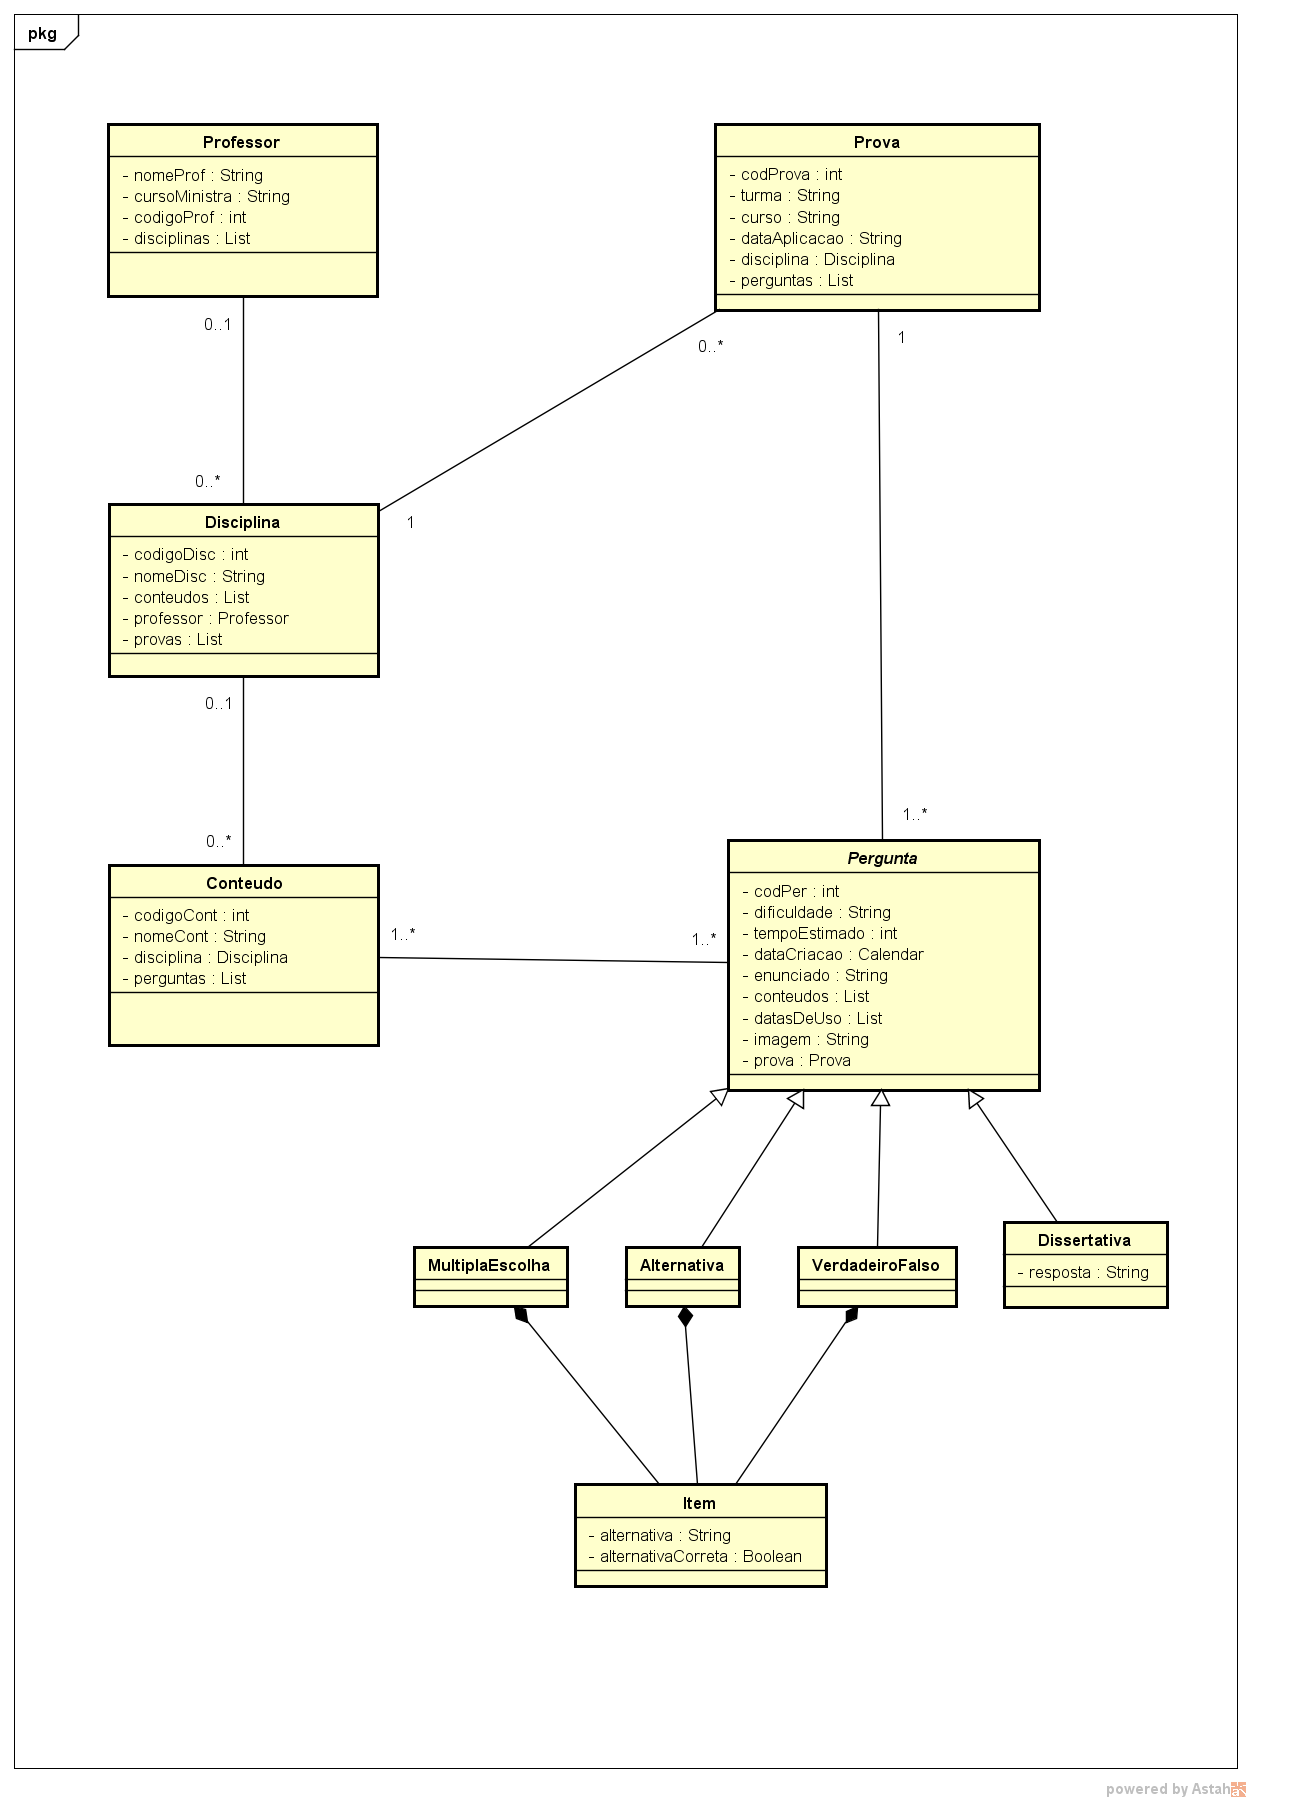
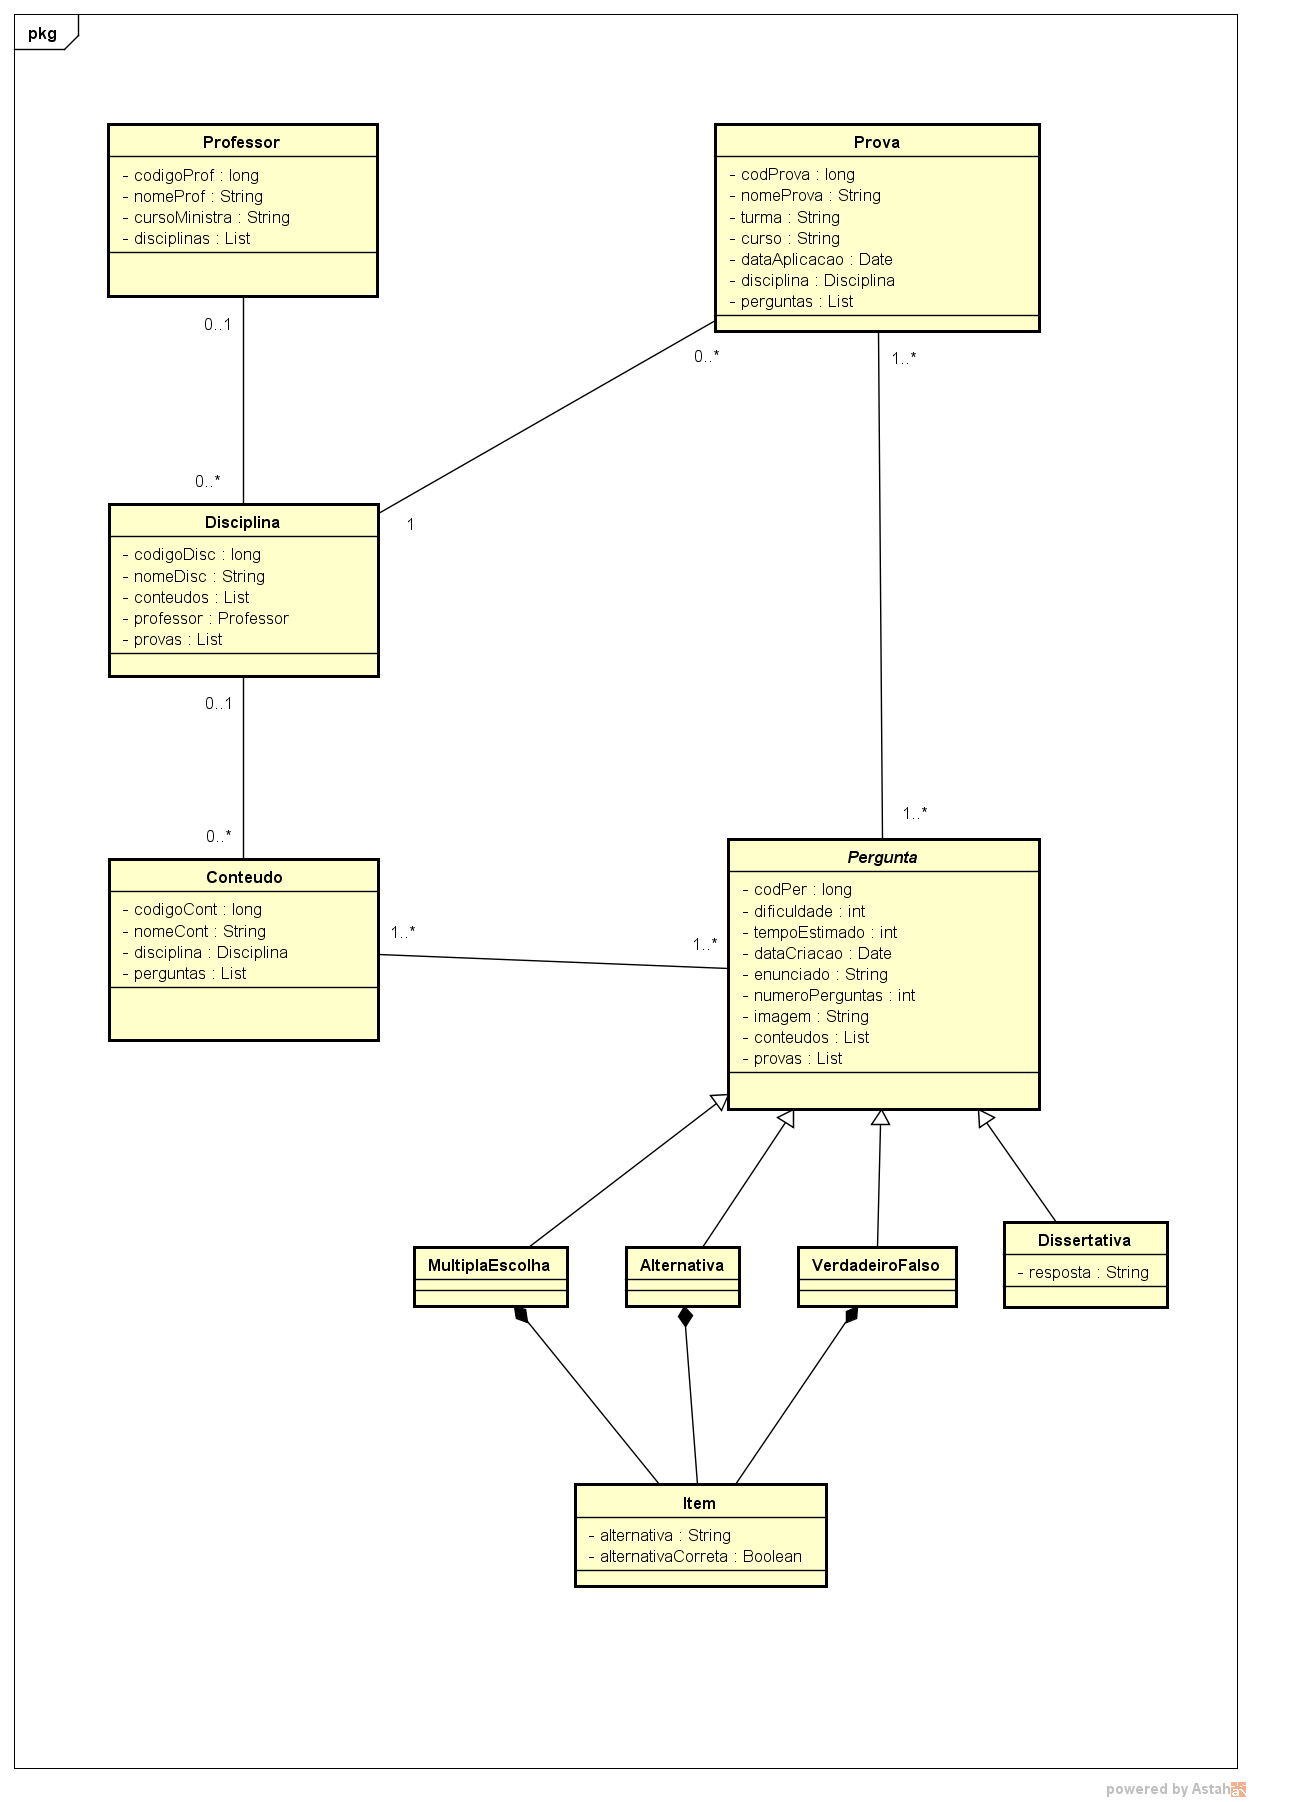
falta atrelação entre pergunta e prova e conteudo, e gerar uma prova

diff --git a/src/main/java/sistema/modelos/Pergunta.java b/src/main/java/sistema/modelos/Pergunta.java
@@ -28,13 +28,14 @@ public abstract class Pergunta implements Serializable{
 	@GeneratedValue(strategy=GenerationType.AUTO)
 	private long codPer;
 	
-	private String dificuldade;
+	private int dificuldade;
 	private int tempoEstimado;
 	
 	@Temporal(value = TemporalType.DATE)
 	private Date dataCriacao;
 	
 	private String enunciado;
+	
 	private int numeroPerguntas;
 	
 	@ManyToMany(mappedBy="perguntas")
@@ -43,7 +44,7 @@ public abstract class Pergunta implements Serializable{
 	private List<Prova> provas = new ArrayList<Prova>();
 	
 	@ManyToMany(mappedBy="perguntas")
-	@JoinTable( name="TblPerguntaProva",joinColumns = {@JoinColumn(name ="c_codPergunta")},
+	@JoinTable( name="TblPerguntaConteudo",joinColumns = {@JoinColumn(name ="c_codPergunta")},
 	inverseJoinColumns = {@JoinColumn(name ="c_codCont")})
 	private List<Conteudo> conteudos = new ArrayList<Conteudo>();
 	
@@ -55,10 +56,10 @@ public abstract class Pergunta implements Serializable{
 	public void setCodPer(int codPer) {
 		this.codPer = codPer;
 	}
-	public String getDificuldade() {
+	public int getDificuldade() {
 		return dificuldade;
 	}
-	public void setDificuldade(String dificuldade) {
+	public void setDificuldade(int dificuldade) {
 		this.dificuldade = dificuldade;
 	}
 	public int getTempoEstimado() {
@@ -74,35 +75,6 @@ public abstract class Pergunta implements Serializable{
 	public void setDataCriacao(Date dataCriacao) {
 		this.dataCriacao = dataCriacao;
 	}
-	/*public String getDataCriacao() {
-		
-		String dataCriacao = "";
-		
-		try {	 
-			SimpleDateFormat formatoData = new SimpleDateFormat("dd/MM/yy");
-			dataCriacao = formatoData.format(this.dataCriacao.getTime());
-			 
-			return dataCriacao;
-			 
-			} catch (Exception e) 
-			{
-				System.out.println("Erro ao converter de Calendar para String");
-			}
-		return "";
-	}
-	public void setDataCriacao(String dataCriacao) {
-		
-		SimpleDateFormat formatoData = new SimpleDateFormat("dd/MM/yy");
-		
-		this.dataCriacao = Calendar.getInstance();
-		
-		try{
-		this.dataCriacao.setTime(formatoData.parse(dataCriacao));
-		}catch(Exception e)
-		{
-			System.out.println("Erro ao converter de String para Calendar");
-		}
-	}*/
 	public String getEnunciado() {
 		return enunciado;
 	}
@@ -138,5 +110,36 @@ public abstract class Pergunta implements Serializable{
 	{
 		provas.add(prova);
 	}
+	public void addConteudo(Conteudo conteudo)
+	{
+		conteudos.add(conteudo);
+	}
+	@Override
+	public int hashCode() {
+		final int prime = 31;
+		int result = 1;
+		result = prime * result + (int) (codPer ^ (codPer >>> 32));
+		result = prime * result + ((enunciado == null) ? 0 : enunciado.hashCode());
+		return result;
+	}
+	@Override
+	public boolean equals(Object obj) {
+		if (this == obj)
+			return true;
+		if (obj == null)
+			return false;
+		if (getClass() != obj.getClass())
+			return false;
+		Pergunta other = (Pergunta) obj;
+		if (codPer != other.codPer)
+			return false;
+		if (enunciado == null) {
+			if (other.enunciado != null)
+				return false;
+		} else if (!enunciado.equals(other.enunciado))
+			return false;
+		return true;
+	}
+	
 		
 }

diff --git a/src/main/java/sistema/beans/ProvaManagedBean.java b/src/main/java/sistema/beans/ProvaManagedBean.java
@@ -1,10 +1,13 @@
 package sistema.beans;
 
+import java.util.ArrayList;
 import java.util.List;
 
 import sistema.modelos.Disciplina;
+import sistema.modelos.Pergunta;
 import sistema.modelos.Prova;
 import sistema.service.DisciplinaService;
+import sistema.service.PerguntaService;
 import sistema.service.ProvaService;
 
 import javax.faces.bean.ManagedBean;
@@ -14,18 +17,25 @@ import org.primefaces.event.RowEditEvent;
 
 @ManagedBean
 @ViewScoped
-
 public class ProvaManagedBean 
 {
 	
 	private Prova prova = new Prova();
 	private Disciplina disciplina;
+	private List<Pergunta> perguntasSelecionadas;
 	private List<Prova> provas;
+	private PerguntaService perguntaService = new PerguntaService();
 	private ProvaService provaService = new ProvaService();
 	private DisciplinaService discService = new DisciplinaService();
 	
 	public void salvar() 
 	{
+		/*for(int i = 0; i < perguntasSelecionadas.size();i++)
+		{
+			prova.addPergunta(perguntasSelecionadas.get(i));
+			perguntasSelecionadas.get(i).addProva(prova);
+		}*/
+		
 		disciplina.addProva(prova);
 		prova.setDisciplina(disciplina);
 		
@@ -39,6 +49,14 @@ public class ProvaManagedBean
 	}
 	
 	
+	public List<Pergunta> getPerguntasSelecionadas() {
+		return perguntasSelecionadas;
+	}
+
+	public void setPerguntasSelecionadas(List<Pergunta> perguntasSelecionadas) {
+		this.perguntasSelecionadas = perguntasSelecionadas;
+	}
+
 	public Disciplina getDisciplina() {
 		return disciplina;
 	}
@@ -70,6 +88,9 @@ public class ProvaManagedBean
 			provas = provaService.getProvas();
 
 		return provas;
+	}
+	public List<Pergunta> getPerguntas() {
+		return perguntaService.getPerguntas();
 	}
 
 	public void remover(Prova prova) {

diff --git a/src/main/java/sistema/beans/ConteudoManagedBean.java b/src/main/java/sistema/beans/ConteudoManagedBean.java
@@ -8,8 +8,10 @@ import org.primefaces.event.RowEditEvent;
 
 import sistema.modelos.Conteudo;
 import sistema.modelos.Disciplina;
+import sistema.modelos.Pergunta;
 import sistema.service.ConteudoService;
 import sistema.service.DisciplinaService;
+import sistema.service.PerguntaService;
 
 
 @ManagedBean
@@ -17,17 +19,24 @@ import sistema.service.DisciplinaService;
 public class ConteudoManagedBean 
 {
 	private Conteudo conteudo = new Conteudo();
+	private List<Pergunta> perguntasSelecionadas;
 	private List<Conteudo> conteudos;
 	private Disciplina disciplina;
 	private ConteudoService contService = new ConteudoService();
 	private DisciplinaService discService = new DisciplinaService();
+	private PerguntaService perguntaService = new PerguntaService();
 	
 	
 	public void salvar() 
 	{
 		disciplina.addConteudo(conteudo);
 		conteudo.setDisciplina(disciplina);
-
+		
+		/*for(int i = 0; i < perguntasSelecionadas.size();i++)
+		{
+			conteudo.addPergunta(perguntasSelecionadas.get(i));
+			perguntasSelecionadas.get(i).addConteudo(conteudo);
+		}*/
 		conteudo = contService.salvar(conteudo);
 
 		if (conteudos != null)
@@ -38,6 +47,16 @@ public class ConteudoManagedBean
 
 	}
 
+	public List<Pergunta> getPerguntasSelecionadas() {
+		return perguntasSelecionadas;
+	}
+
+	public void setPerguntasSelecionadas(List<Pergunta> perguntasSelecionadas) {
+		this.perguntasSelecionadas = perguntasSelecionadas;
+	}
+	public List<Pergunta> getPerguntas() {
+		return perguntaService.getPerguntas();
+	}
 	public List<Disciplina> getDisciplinas() 
 	{
 		return discService.getDisciplinas();

diff --git a/src/main/java/sistema/modelos/Prova.java b/src/main/java/sistema/modelos/Prova.java
@@ -2,6 +2,7 @@ package sistema.modelos;
 
 import java.io.Serializable;
 import java.util.ArrayList;
+import java.util.Date;
 import java.util.List;
 
 import javax.persistence.Entity;
@@ -10,6 +11,8 @@ import javax.persistence.GenerationType;
 import javax.persistence.Id;
 import javax.persistence.ManyToMany;
 import javax.persistence.ManyToOne;
+import javax.persistence.Temporal;
+import javax.persistence.TemporalType;
 
 @Entity
 public class Prova implements Serializable
@@ -25,7 +28,8 @@ public class Prova implements Serializable
 	
 	private String curso;
 	
-	private String dataAplicacao;
+	@Temporal(value = TemporalType.DATE)
+	private Date dataAplicacao;
 	
 	@ManyToOne
 	private Disciplina disciplina;
@@ -59,10 +63,10 @@ public class Prova implements Serializable
 	public void setCurso(String curso) {
 		this.curso = curso;
 	}
-	public String getDataAplicacao() {
+	public Date getDataAplicacao() {
 		return dataAplicacao;
 	}
-	public void setDataAplicacao(String dataAplicacao) {
+	public void setDataAplicacao(Date dataAplicacao) {
 		this.dataAplicacao = dataAplicacao;
 	}
 	public Disciplina getDisciplina() {
@@ -76,6 +80,10 @@ public class Prova implements Serializable
 	}
 	public void setPerguntas(List<Pergunta> perguntas) {
 		this.perguntas = perguntas;
+	}
+	public void addPergunta(Pergunta pergunta)
+	{
+		perguntas.add(pergunta);
 	}
 	public void addAlternativa(Alternativa alternativa)
 	{

diff --git a/src/main/java/sistema/beans/converter/PerguntaConverter.java b/src/main/java/sistema/beans/converter/PerguntaConverter.java
@@ -1,0 +1,43 @@
+package sistema.beans.converter;
+
+import javax.faces.component.UIComponent;
+import javax.faces.context.FacesContext;
+import javax.faces.convert.Converter;
+import javax.faces.convert.FacesConverter;
+
+import sistema.modelos.Pergunta;
+import sistema.service.PerguntaService;
+
+@FacesConverter("converterPergunta")
+public class PerguntaConverter implements Converter 
+{
+private PerguntaService servico = new PerguntaService();
+	
+	@Override
+	public Object getAsObject(FacesContext fc, UIComponent uic, String value) 
+	{
+
+		
+		if (value != null && !value.isEmpty()) {
+			
+			  for(Pergunta p : servico.getPerguntas())
+				 if(p.getEnunciado().equals(value))
+				  	return p;
+					
+		}
+
+		return null;
+
+	}
+
+	@Override
+	public String getAsString(FacesContext fc, UIComponent uic,
+			Object pergunta) {
+		if (pergunta == null || pergunta.equals("")) {
+			return null;
+		} else {
+			return ((Pergunta) pergunta).getEnunciado();
+
+		}
+	}
+}

diff --git a/src/main/java/sistema/beans/PerguntaManagedBean.java b/src/main/java/sistema/beans/PerguntaManagedBean.java
@@ -3,13 +3,9 @@ package sistema.beans;
 import java.util.ArrayList;
 import java.util.List;
 
-import javax.faces.application.FacesMessage;
 import javax.faces.bean.ManagedBean;
 import javax.faces.bean.ViewScoped;
-import javax.faces.context.FacesContext;
-import javax.faces.model.DataModel;
 import org.primefaces.event.RowEditEvent;
-import sistema.beans.datamodel.DisciplinaDataModel;
 import sistema.modelos.Alternativa;
 import sistema.modelos.Dissertativa;
 import sistema.modelos.MultiplaEscolha;

diff --git a/src/main/java/sistema/modelos/Conteudo.java b/src/main/java/sistema/modelos/Conteudo.java
@@ -52,6 +52,11 @@ public class Conteudo implements Serializable
 	public void setPerguntas(List<Pergunta> perguntas) {
 		this.perguntas = perguntas;
 	}
+	public void addPergunta(Pergunta pergunta)
+	{
+		perguntas.add(pergunta);
+	}
+	
 	@Override
 	public int hashCode() {
 		final int prime = 31;

diff --git a/src/main/java/sistema/service/PerguntaService.java b/src/main/java/sistema/service/PerguntaService.java
@@ -71,7 +71,6 @@ public class PerguntaService
 	}
 	public Pergunta pesquisar(Pergunta pergunta) 
 	{
-
 		pergunta = perguntaDAO.getById(Pergunta.class, pergunta.getCodPer());
 		perguntaDAO.closeEntityManager();
 		return pergunta;
